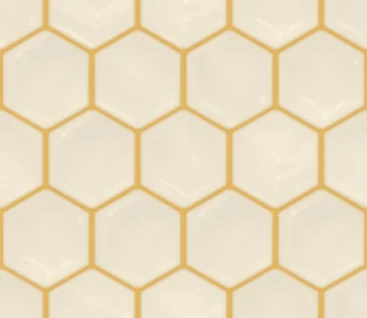
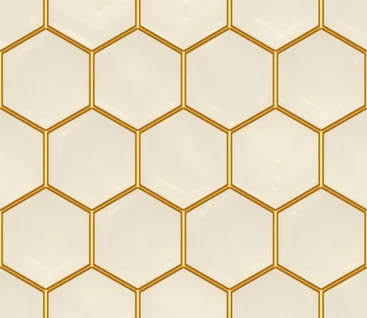
Sonicology Rack look: the EQ graph as the concept draws it; real gold on the knob panel
- EQ: gold glowing curve, the area to 0 dB in the colour of the band that shapes it
  (gold lifts, red hard cuts, blue gentle / low / high cuts), round glossy points, a
  red line and a red glow under a hard cut, the spectrum as a filled glowing area
  with a spiky edge, +12 to -18 dB, bold white scale, coloured band pills (BANDS).
- Knob panel: its honeycomb lines in shaded gold (darker edge, gold, bright middle,
  warm glow), like the glass honeycomb's walls.
- Plan: what each plug-in publishes for an EQ (bands with names, a spectrum).

Claude-Session: https://claude.ai/code/session_011JvJZtqrGyHXKfGHL4LA1p

Changed region(s): [[0.0, 0.0, 1.0, 1.0]]

diff --git a/plugin/ui/rack.js b/plugin/ui/rack.js
@@ -390,52 +390,121 @@
     return 20 * Math.log10(Math.max(mag, 1e-9)) * order;
   }
 
+  // EQ bands as the concept draws them: gold where a band lifts, red where it cuts hard (with a red line down from its
+  // point and the spectrum tinted under it), blue for gentle cuts and low / high cuts.
+  const isCut = (b) => b.type === "lowCut" || b.type === "highCut";
+  const bandTone = (b) => (isCut(b) ? "blue" : (b.db || 0) >= 0.5 ? "gold" : (b.db || 0) <= -2 ? "red" : "blue");
+  const BAND_WORD = { lowCut: "Low Cut", highCut: "High Cut", lowShelf: "Low Shelf", highShelf: "High Shelf" };
+  const bandName = (b, i) => b.name || BAND_WORD[b.type] || "Band " + (i + 1);
+  const TONE_RGB = { gold: "242, 196, 84", blue: "58, 162, 255", red: "255, 46, 69" };
+
   function eqGraph(mod, w, h) {
-    const bands = mod.bands || [];
-    const fx = (f) => (Math.log10(f / 20) / 3) * w;
-    const range = Math.max(12, Math.ceil(Math.max(0, ...bands.filter((b) => b.type !== "lowCut" && b.type !== "highCut").map((b) => Math.abs(b.db || 0))) / 6) * 6);
-    const gy = (db) => h / 2 - (clamp(db, -range * 1.5, range) / range) * (h / 2 - 14);
+    const bands = (mod.bands || []).filter((b) => b.on !== false);
+    const fx = (f) => (Math.log10(clamp(f, 20, 20000) / 20) / 3) * w;
+    const bells = bands.filter((b) => !isCut(b));
+    const top = Math.max(12, Math.ceil(Math.max(0, ...bells.map((b) => b.db || 0)) / 6) * 6);
+    const bot = -Math.max(18, Math.ceil(Math.max(0, ...bells.map((b) => -(b.db || 0))) / 6) * 6);
+    const gy = (db) => 6 + ((top - clamp(db, bot, top)) / (top - bot)) * (h - 12);
+    const y0 = gy(0);
+
+    let defs = "";
+    for (const t of Object.keys(TONE_RGB)) {
+      defs += `<linearGradient id="sr-up-${t}" x1="0" y1="0" x2="0" y2="1"><stop offset="0" stop-color="rgb(${TONE_RGB[t]})" stop-opacity=".62"/><stop offset="1" stop-color="rgb(${TONE_RGB[t]})" stop-opacity=".10"/></linearGradient>`;
+      defs += `<linearGradient id="sr-dn-${t}" x1="0" y1="0" x2="0" y2="1"><stop offset="0" stop-color="rgb(${TONE_RGB[t]})" stop-opacity=".10"/><stop offset="1" stop-color="rgb(${TONE_RGB[t]})" stop-opacity=".66"/></linearGradient>`;
+    }
+    defs += `<linearGradient id="sr-spec" x1="0" y1="0" x2="0" y2="1"><stop offset="0" stop-color="#3fa8ff" stop-opacity=".85"/><stop offset=".55" stop-color="#1c64d8" stop-opacity=".45"/><stop offset="1" stop-color="#0b2a80" stop-opacity=".25"/></linearGradient>`;
+    defs += `<linearGradient id="sr-spec-red" x1="0" y1="0" x2="0" y2="1"><stop offset="0" stop-color="#ff5a6a" stop-opacity=".95"/><stop offset="1" stop-color="#a0001a" stop-opacity=".45"/></linearGradient>`;
+    defs += `<linearGradient id="sr-redcol" x1="0" y1="0" x2="0" y2="1"><stop offset="0" stop-color="#ff2e45" stop-opacity=".22"/><stop offset="1" stop-color="#ff2e45" stop-opacity="0"/></linearGradient>`;
+    defs += `<linearGradient id="sr-redfade" x1="0" y1="0" x2="1" y2="0"><stop offset="0" stop-color="#fff" stop-opacity="0"/><stop offset=".5" stop-color="#fff" stop-opacity="1"/><stop offset="1" stop-color="#fff" stop-opacity="0"/></linearGradient>`;
+
     let grid = "";
     for (const f of [50, 100, 200, 500, 1000, 2000, 5000, 10000]) grid += `<line x1="${fx(f)}" y1="0" x2="${fx(f)}" y2="${h}" class="sr-gl"/>`;
-    for (let d = -range; d <= range; d += range / 2) grid += `<line x1="0" y1="${gy(d)}" x2="${w}" y2="${gy(d)}" class="sr-gl${d === 0 ? " sr-g0" : ""}"/>`;
-    let spec = "";
+    for (let d = top; d >= bot; d -= 6) grid += `<line x1="0" y1="${gy(d)}" x2="${w}" y2="${gy(d)}" class="sr-gl${d === 0 ? " sr-g0" : ""}"/>`;
+
+    // the spectrum (spiky, glowing); tinted red under hard cuts
+    const reds = bands.filter((b) => bandTone(b) === "red");
+    let spec = "", clips = "";
     if (Array.isArray(mod.spectrum) && mod.spectrum.length > 4) {
+      // dense glowing needles under a soft envelope (the concept's spectrum), in dB on the graph's own scale
       const n = mod.spectrum.length;
-      let p = `M0 ${h}`;
+      const sy = (v) => gy(clamp(v, bot, top)).toFixed(1);
+      let d = `M0 ${h}`, edge = "", needles = "", pen = false;
       mod.spectrum.forEach((v, i) => {
-        const x = (i / (n - 1)) * w;
-        const y = h - clamp((v + 72) / 72, 0, 1) * (h - 8);
-        p += ` L${x.toFixed(1)} ${y.toFixed(1)}`;
+        const x = ((i / (n - 1)) * w).toFixed(1);
+        d += ` L${x} ${sy(v)}`;
+        const shows = v > bot + 1;   // no line along the floor where there is nothing
+        if (shows) { edge += `${pen ? "L" : "M"}${x} ${sy(v)}`; needles += `M${x} ${h}V${sy(v)}`; }
+        pen = shows;
       });
-      spec = `<path d="${p} L${w} ${h} Z" class="sr-spec"/>`;
+      d += ` L${w} ${h} Z`;
+      const body = `<path d="${d}" fill="url(#sr-spec)" class="sr-specarea"/><path d="${needles}" class="sr-needles"/><path d="${edge}" class="sr-specedge"/>`;
+      spec = `<g class="sr-spec">${body}</g>`;
+      reds.forEach((b, i) => {
+        const span = Math.pow(2, 0.9 / Math.max(0.4, b.q || 1));
+        const x0 = fx(b.hz / span), x1 = fx(b.hz * span);
+        clips += `<mask id="sr-rm-${i}" maskUnits="userSpaceOnUse"><rect x="${x0}" y="0" width="${x1 - x0}" height="${h}" fill="url(#sr-redfade)"/></mask>`;
+        spec += `<g class="sr-spec sr-spec-red" mask="url(#sr-rm-${i})"><path d="${d}" fill="url(#sr-spec-red)" class="sr-specarea"/><path d="${needles}" class="sr-needles"/><path d="${edge}" class="sr-specedge"/></g>`;
+      });
     }
-    let curve = "", fill = "";
-    if (bands.length) {
-      const pts = [];
-      for (let i = 0; i <= 160; i++) {
-        const f = 20 * Math.pow(1000, i / 160);
-        let db = 0;
-        for (const b of bands) if (b.on !== false) db += bandDb(b, f);
-        pts.push([fx(f), gy(db), db]);
-      }
-      const d = pts.map((p, i) => (i ? "L" : "M") + p[0].toFixed(1) + " " + p[1].toFixed(1)).join(" ");
-      curve = `<path d="${d}" class="sr-curve"/>`;
-      fill = `<path d="${d} L${w} ${gy(0)} L0 ${gy(0)} Z" class="sr-curvefill"/>`;
-    }
-    let dots = "";
-    bands.forEach((b, i) => {
-      if (b.on === false) return;
-      const x = fx(clamp(b.hz, 20, 20000));
-      const y = b.type === "lowCut" || b.type === "highCut" ? gy(-3) : gy(b.db || 0);
-      const tone = b.db < -0.05 && b.type !== "lowCut" && b.type !== "highCut" ? "red" : i % 2 ? "blue" : "gold";
-      dots += `<circle cx="${x.toFixed(1)}" cy="${y.toFixed(1)}" r="7" class="sr-dot sr-dot-${tone}"/>`;
+    let cols = "";
+    reds.forEach((b, i) => {
+      const span = Math.pow(2, 0.9 / Math.max(0.4, b.q || 1));
+      cols += `<rect x="${fx(b.hz / span)}" y="${y0}" width="${fx(b.hz * span) - fx(b.hz / span)}" height="${h - y0}" fill="url(#sr-redcol)" mask="url(#sr-rm-${i})"/>`;
     });
+
+    // the response, and the fill between it and 0 dB in the colour of the band that shapes each part
+    let curve = "", fills = "";
+    if (bands.length) {
+      const N = 200;
+      const pts = [];
+      for (let i = 0; i <= N; i++) {
+        const f = 20 * Math.pow(1000, i / N);
+        let db = 0, lead = null, most = 0;
+        for (const b of bands) {
+          const v = bandDb(b, f);
+          db += v;
+          if (Math.abs(v) > most) { most = Math.abs(v); lead = b; }
+        }
+        pts.push({ x: fx(f), y: gy(db), db, tone: lead && most > 0.15 ? bandTone(lead) : null });
+      }
+      curve = `<path d="${pts.map((p, i) => (i ? "L" : "M") + p.x.toFixed(1) + " " + p.y.toFixed(1)).join(" ")}" class="sr-curve"/>`;
+      let i = 0;
+      while (i < pts.length) {
+        let j = i;
+        const up = pts[i].db >= 0;
+        while (j + 1 < pts.length && pts[j + 1].tone === pts[i].tone && (pts[j + 1].db >= 0) === up) j++;
+        if (pts[i].tone && j > i) {
+          const seg = pts.slice(i, j + 2 <= pts.length ? j + 2 : j + 1);
+          const d = `M${seg[0].x.toFixed(1)} ${y0} ` + seg.map((p) => `L${p.x.toFixed(1)} ${p.y.toFixed(1)}`).join(" ") + ` L${seg[seg.length - 1].x.toFixed(1)} ${y0} Z`;
+          fills += `<path d="${d}" fill="url(#sr-${up ? "up" : "dn"}-${pts[i].tone})"/>`;
+        }
+        i = j + 1;
+      }
+    }
+
+    // each band's point (round, glossy: HTML on top of the stretched drawing), a red line down from a hard cut
+    let lines = "", dots = "";
+    bands.forEach((b) => {
+      const x = fx(b.hz);
+      const y = isCut(b) ? gy(-3) : gy(b.db || 0);
+      const tone = bandTone(b);
+      if (tone === "red") lines += `<line x1="${x}" y1="${y}" x2="${x}" y2="${h}" class="sr-redline"/>`;
+      dots += `<i class="sr-eqdot sr-eqdot-${tone}" style="left:${((x / w) * 100).toFixed(2)}%;top:${((y / h) * 100).toFixed(2)}%"></i>`;
+    });
+
     const labels = [20, 50, 100, 200, 500, "1k", "2k", "5k", "10k", "20k"].map((t) => {
       const f = typeof t === "number" ? t : parseFloat(t) * 1000;
       return `<span style="left:${(fx(f) / w) * 100}%">${t}</span>`;
     }).join("");
-    const dbl = [range, range / 2, 0, -range / 2, -range].map((d) => `<span style="top:${(gy(d) / h) * 100}%">${d > 0 ? "+" + d : d < 0 ? MINUS + -d : 0}</span>`).join("");
-    return `<div class="sr-graph sr-graph-eq"><div class="sr-ylab">${dbl}</div><svg viewBox="0 0 ${w} ${h}" preserveAspectRatio="none">${grid}${spec}${fill}${curve}${dots}</svg><div class="sr-xlab">${labels}</div></div>`;
+    let dbl = "";
+    for (let d = top; d >= bot; d -= 6) dbl += `<span style="top:${(gy(d) / h) * 100}%">${d > 0 ? "+" + d : d < 0 ? MINUS + -d : 0}</span>`;
+    return `<div class="sr-graph sr-graph-eq"><div class="sr-ylab">${dbl}</div><svg viewBox="0 0 ${w} ${h}" preserveAspectRatio="none"><defs>${defs}${clips}</defs>${grid}${spec}${cols}${fills}${lines}${curve}</svg>${dots}<div class="sr-xlab">${labels}</div></div>`;
+  }
+
+  function bandChips(mod) {
+    const bands = (mod.bands || []).filter((b) => b.on !== false);
+    if (!bands.length) return "";
+    return `<div class="sr-bands"><b>BANDS</b>${bands.map((b, i) => `<span class="sr-band sr-band-${bandTone(b)}">${i + 1}&nbsp; ${esc(bandName(b, i))}</span>`).join("")}</div>`;
   }
 
   function historyGraph(key, kind, w, h) {
@@ -602,6 +671,7 @@
           ${pill(m.state)}
         </div>
         <div class="sr-graphwrap">${graph}${meterNow}</div>
+        ${c.graph === "eq" ? bandChips(m) : ""}
         <div class="sr-knobs ${vals.length ? "" : "sr-knobs-none"}">
           ${vals.length ? `<div class="sr-krow">${knobs}</div>` : `<p class="sr-nokn">${m.state === "off" ? "Off: it passes the sound through untouched." : "No settings to show."}</p>`}
           ${more ? `<div class="sr-more">${more}</div>` : ""}

diff --git a/tools/rack/rack_mock.js b/tools/rack/rack_mock.js
@@ -13,13 +13,13 @@
   const off = (key) => ({ key, state: "off", summary: "Off" });
   const H = { lead: 0x1a2b301, chorus: 0x1a2b302, adlibs: 0x1a2b303, beat: 0x1a2b304, kick: 0x1a2b305, snare: 0x1a2b306, hats: 0x1a2b307, bass: 0x1a2b308, keys: 0x1a2b309 };
 
-  // a vocal-ish spectrum (160 bins, 20 Hz - 20 kHz, dB), spiky like a real one
-  const vocalSpectrum = () => Array.from({ length: 160 }, (_, i) => {
-    const f = 20 * Math.pow(1000, i / 159);
-    const body = -40 + 22 * Math.exp(-Math.pow(Math.log2(f / 250), 2) / 2.2) + 14 * Math.exp(-Math.pow(Math.log2(f / 2500), 2) / 1.5);
-    const roll = f < 90 ? -30 * Math.log2(90 / f) : 0;
-    const spikes = 7 * Math.abs(Math.sin(i * 12.9898 + 78.233 * Math.sin(i))) - 3.5;
-    return body + roll - (f > 9000 ? 10 * Math.log2(f / 9000) : 0) + spikes + wob(i * 0.7, 2.5) - 6;
+  // a vocal-ish spectrum (240 bins, 20 Hz - 20 kHz, dB), spiky like a real one
+  const vocalSpectrum = () => Array.from({ length: 360 }, (_, i) => {
+    const f = 20 * Math.pow(1000, i / 359);
+    const body = -40 + 22 * Math.exp(-Math.pow(Math.log2(f / 250), 2) / 3.2) + 15 * Math.exp(-Math.pow(Math.log2(f / 2500), 2) / 2.2);
+    const roll = f < 45 ? -14 * Math.log2(45 / f) : 0;
+    const spikes = 8 * Math.abs(Math.sin(i * 12.9898 + 78.233 * Math.sin(i))) - 4;
+    return body + roll - (f > 9000 ? 8 * Math.log2(f / 9000) : 0) + spikes + wob(i * 0.7, 2) + 17;
   });
 
   function voxLead() {
@@ -31,10 +31,10 @@
         { key: "vox.pitch", state: "on", summary: "Classic · 20 ms · F minor (from the beat)", values: [v("Mode", "Classic", 0.5), v("Amount", "85 %", 0.85), v("Retune", "20 ms", 0.2), v("Vibrato", "as sung", 0.5), v("Humanize", "20 %", 0.2), v("Formant", "0 st", 0.5, true)] },
         { key: "vox.cleanup", state: "on", summary: "Noise −10 dB · Low cut 90 Hz · Breaths −6 dB", values: [v("Noise", "45 %", 0.45), v("Room", "20 %", 0.2), v("Low Cut", "90 Hz", 0.35), v("Pops", "On", 1), v("Clicks", "30 %", 0.3), v("Breaths", "−6 dB", 0.4), v("Gate", "Off", 0)] },
         { key: "vox.eq", state: "on", summary: "Mud −3 dB · Presence +2.5 dB · Air +2 dB", spectrum: vocalSpectrum(),
-          bands: [{ type: "lowShelf", hz: 120, db: 0.5, q: 0.7 }, { type: "bell", hz: 320, db: -3, q: 1.1 }, { type: "bell", hz: 900, db: -0.5, q: 1.2 }, { type: "bell", hz: 3500, db: 2.5, q: 0.9 }, { type: "highShelf", hz: 10000, db: 2, q: 0.7 }],
+          bands: [{ name: "Body", type: "lowShelf", hz: 120, db: 0.5, q: 0.7 }, { name: "Mud", type: "bell", hz: 320, db: -3, q: 1.1 }, { name: "Nasal", type: "bell", hz: 900, db: -0.5, q: 1.2 }, { name: "Presence", type: "bell", hz: 3500, db: 2.5, q: 0.9 }, { name: "Air", type: "highShelf", hz: 10000, db: 2, q: 0.7 }],
           values: [v("Body", "+0.5 dB", 0.53, true), v("Mud", "−3.0 dB", 0.33, true), v("Nasal", "−0.5 dB", 0.47, true), v("Presence", "+2.5 dB", 0.64, true), v("Air", "+2.0 dB", 0.61, true)] },
         { key: "vox.dyneq", state: "on", summary: "Harsh 3.2 kHz cuts up to 4 dB · Smooth 30 %", spectrum: vocalSpectrum(),
-          bands: [{ type: "bell", hz: 180, db: -0.5, q: 1.4 }, { type: "bell", hz: 420, db: -1.5, q: 1.4 }, { type: "bell", hz: 1100, db: 0, q: 1.4 }, { type: "bell", hz: 3200, db: -3.2 + wob(6, 0.8), q: 2.2 }],
+          bands: [{ name: "Boom", type: "bell", hz: 180, db: -0.5, q: 1.4 }, { name: "Mud", type: "bell", hz: 420, db: -1.5, q: 1.4 }, { name: "Honk", type: "bell", hz: 1100, db: 0, q: 1.4 }, { name: "Harsh", type: "bell", hz: 3200, db: -4.2 + wob(6, 0.8), q: 2.2 }],
           values: [v("Max Cut", "4.0 dB", 0.4), v("Frequency", "3.2 kHz", 0.62), v("Sensitivity", "55 %", 0.55), v("Smooth", "30 %", 0.3)] },
         { key: "vox.deess", state: "on", summary: "Amount 45 % at 6.8 kHz", meterKind: "gr", meter: ds, values: [v("Amount", "45 %", 0.45), v("Sensitivity", "50 %", 0.5), v("Frequency", "6.8 kHz", 0.7)] },
         { key: "vox.rider", state: "on", summary: "Target −18 dB · Range ±6 dB · Medium", meterKind: "gr", meter: rd, values: [v("Target", "−18 dB", 0.4), v("Range", "±6 dB", 0.5), v("Speed", "Med", 0.5)] },
@@ -106,29 +106,29 @@
       voxAdlibs(),
       voxBeat(),
       link("link-beat", "Beat", H.beat, "beat", -9, {
-        "mix.assist": { summary: "Pocket −2.0 dB at 3.2 kHz", by: "Mixology's Vocal Pocket", bands: [{ type: "bell", hz: 3200, db: -2, q: 1.4 }], values: [v("Low Cut", "Off", 0), v("Mud", "Off", 0), v("Pocket", "−2.0 dB", 0.35, true)] },
+        "mix.assist": { summary: "Pocket −2.0 dB at 3.2 kHz", by: "Mixology's Vocal Pocket", bands: [{ name: "Pocket", type: "bell", hz: 3200, db: -2, q: 1.4 }], values: [v("Low Cut", "Off", 0), v("Mud", "Off", 0), v("Pocket", "−2.0 dB", 0.35, true)] },
         "mix.stereo": { summary: "Lows in the middle below 120 Hz", values: [v("Width", "100 %", 0.5), v("Low Width", "0 %", 0), v("Mid Width", "100 %", 0.5), v("High Width", "110 %", 0.55)] },
       }),
       link("link-kick", "Kick", H.kick, "track", -10, {
-        "mix.eq": { summary: "Low cut 30 Hz · box −3 dB at 400 Hz", by: "Mixology AUTO", bands: [{ type: "lowCut", hz: 30, q: 0.7 }, { type: "bell", hz: 60, db: 1.5, q: 1 }, { type: "bell", hz: 400, db: -3, q: 1.6 }, { type: "bell", hz: 4000, db: 1.5, q: 1.2 }],
+        "mix.eq": { summary: "Low cut 30 Hz · box −3 dB at 400 Hz", by: "Mixology AUTO", bands: [{ type: "lowCut", hz: 30, q: 0.7 }, { name: "Thump", type: "bell", hz: 60, db: 1.5, q: 1 }, { name: "Box", type: "bell", hz: 400, db: -3, q: 1.6 }, { name: "Click", type: "bell", hz: 4000, db: 1.5, q: 1.2 }],
           values: [v("Low Cut", "30 Hz", 0.1), v("Thump", "+1.5 dB", 0.56, true), v("Box", "−3.0 dB", 0.38, true), v("Click", "+1.5 dB", 0.56, true)] },
         "mix.trans": { summary: "Attack +20 % · Sustain −10 %", values: [v("Attack", "+20 %", 0.6, true), v("Sustain", "−10 %", 0.45, true), v("Speed", "Fast", 0.7), v("Mix", "100 %", 1)] },
       }),
       link("link-snare", "Snare", H.snare, "track", -12, {
-        "mix.eq": { summary: "Crack +2 dB at 3.5 kHz", bands: [{ type: "lowCut", hz: 70, q: 0.7 }, { type: "bell", hz: 3500, db: 2, q: 1.2 }], values: [v("Low Cut", "70 Hz", 0.2), v("Crack", "+2.0 dB", 0.58, true)] },
+        "mix.eq": { summary: "Crack +2 dB at 3.5 kHz", bands: [{ type: "lowCut", hz: 70, q: 0.7 }, { name: "Crack", type: "bell", hz: 3500, db: 2, q: 1.2 }], values: [v("Low Cut", "70 Hz", 0.2), v("Crack", "+2.0 dB", 0.58, true)] },
         "mix.trans": { summary: "Attack +15 %", values: [v("Attack", "+15 %", 0.58, true), v("Sustain", "0 %", 0.5, true)] },
         "mix.space": { summary: "Room 0.6 s · Mix 8 %", layers: ["room"], values: [v("Effect", "Room", 0.7), v("Decay", "0.6 s", 0.2), v("Mix", "8 %", 0.08)] },
       }),
       link("link-hats", "Hats", H.hats, "track", -18, {
         "mix.eq": { summary: "Low cut 300 Hz", bands: [{ type: "lowCut", hz: 300, q: 0.7 }], values: [v("Low Cut", "300 Hz", 0.45)] },
-        "mix.assist": { summary: "Pocket −1.5 dB at 3.2 kHz", by: "Mixology's Vocal Pocket", bands: [{ type: "bell", hz: 3200, db: -1.5, q: 1.4 }], values: [v("Low Cut", "Off", 0), v("Mud", "Off", 0), v("Pocket", "−1.5 dB", 0.4, true)] },
+        "mix.assist": { summary: "Pocket −1.5 dB at 3.2 kHz", by: "Mixology's Vocal Pocket", bands: [{ name: "Pocket", type: "bell", hz: 3200, db: -1.5, q: 1.4 }], values: [v("Low Cut", "Off", 0), v("Mud", "Off", 0), v("Pocket", "−1.5 dB", 0.4, true)] },
       }),
       link("link-808", "808", H.bass, "track", -8, {
         "mix.comp": { summary: "4:1 · GR 3 dB", meterKind: "gr", meter: -3 + wob(13, 1.5), values: [v("Threshold", "−18 dB", 0.45), v("Ratio", "4.0:1", 0.45), v("Attack", "10 ms", 0.3), v("Release", "120 ms", 0.4), v("Makeup", "+2.0 dB", 0.56, true), v("Knee", "Medium", 0.5)] },
         "mix.stereo": { summary: "Lows in the middle below 120 Hz", values: [v("Width", "100 %", 0.5), v("Low Width", "0 %", 0)] },
       }),
       link("link-keys", "Keys", H.keys, "track", -16, {
-        "mix.eq": { summary: "Mud −2.5 dB at 300 Hz", by: "Mixology AUTO", bands: [{ type: "lowCut", hz: 90, q: 0.7 }, { type: "bell", hz: 300, db: -2.5, q: 1.3 }], values: [v("Low Cut", "90 Hz", 0.3), v("Mud", "−2.5 dB", 0.4, true)] },
+        "mix.eq": { summary: "Mud −2.5 dB at 300 Hz", by: "Mixology AUTO", bands: [{ type: "lowCut", hz: 90, q: 0.7 }, { name: "Mud", type: "bell", hz: 300, db: -2.5, q: 1.3 }], values: [v("Low Cut", "90 Hz", 0.3), v("Mud", "−2.5 dB", 0.4, true)] },
         "mix.comp": { summary: "2:1 · GR 1.5 dB", meterKind: "gr", meter: -1.5 + wob(14, 0.8), values: [v("Threshold", "−22 dB", 0.4), v("Ratio", "2.0:1", 0.2), v("Attack", "20 ms", 0.4), v("Release", "200 ms", 0.5)] },
         "mix.tone": { summary: "Air +1.5 dB", values: [v("Warmth", "0.0 dB", 0.5, true), v("Presence", "0.0 dB", 0.5, true), v("Air", "+1.5 dB", 0.62, true)] },
         "mix.stereo": { summary: "Width 120 %", values: [v("Width", "120 %", 0.6)] },
@@ -144,7 +144,7 @@
         modules: [
           { key: "mas.unlimiter", state: "off", summary: "Neutral" },
           { key: "mas.tonaleq", state: "on", summary: "Low End +1.0 · Upper Mid −0.5 · Air +1.5 dB",
-            bands: [{ type: "lowShelf", hz: 45, db: 1, q: 0.7 }, { type: "bell", hz: 100, db: 0, q: 0.8 }, { type: "bell", hz: 350, db: 0, q: 0.9 }, { type: "bell", hz: 1000, db: 0, q: 0.8 }, { type: "bell", hz: 2500, db: -0.5, q: 0.9 }, { type: "bell", hz: 5000, db: 0, q: 0.9 }, { type: "highShelf", hz: 12000, db: 1.5, q: 0.7 }],
+            bands: [{ name: "Low End", type: "lowShelf", hz: 45, db: 1, q: 0.7 }, { name: "Bass", type: "bell", hz: 100, db: 0, q: 0.8 }, { name: "Low Mid", type: "bell", hz: 350, db: 0, q: 0.9 }, { name: "Mid", type: "bell", hz: 1000, db: 0, q: 0.8 }, { name: "Upper Mid", type: "bell", hz: 2500, db: -0.5, q: 0.9 }, { name: "Presence", type: "bell", hz: 5000, db: 0, q: 0.9 }, { name: "Air", type: "highShelf", hz: 12000, db: 1.5, q: 0.7 }],
             values: [v("Low End", "+1.0", 0.56, true), v("Bass", "0.0", 0.5, true), v("Low Mid", "0.0", 0.5, true), v("Mid", "0.0", 0.5, true), v("Upper Mid", "−0.5", 0.47, true), v("Presence", "0.0", 0.5, true), v("Air", "+1.5", 0.58, true)] },
           { key: "mas.stemeq", state: "on", summary: "Vocals +1.0 dB", values: [v("Vocals", "+1.0 dB", 0.56, true), v("Drums", "0.0 dB", 0.5, true), v("Bass", "0.0 dB", 0.5, true), v("Other", "0.0 dB", 0.5, true)] },
           { key: "mas.steady", state: "on", summary: "Amount 40 %", values: [v("Amount", "40 %", 0.4), v("Range", "3 dB", 0.4), v("Speed", "Medium", 0.5)] },

diff --git a/plugin/ui/rack.css b/plugin/ui/rack.css
@@ -209,7 +209,7 @@
 .sr-graph svg { position: absolute; inset: 0; width: 100%; height: 100%; overflow: visible; }
 .sr-gl { stroke: rgba(150, 180, 240, .14); stroke-width: 1; vector-effect: non-scaling-stroke; }
 .sr-g0 { stroke: rgba(200, 220, 255, .35); }
-.sr-spec { fill: rgba(30, 110, 230, .38); stroke: rgba(90, 170, 255, .75); stroke-width: 1; vector-effect: non-scaling-stroke; }
+.sr-spec { stroke: rgba(90, 170, 255, .75); stroke-width: 1; vector-effect: non-scaling-stroke; }
 .sr-curve { fill: none; stroke: #f2c860; stroke-width: 3; vector-effect: non-scaling-stroke; filter: drop-shadow(0 0 4px rgba(242, 200, 96, .8)); }
 .sr-curvefill { fill: rgba(255, 46, 69, .16); stroke: none; }
 .sr-dot { stroke: #fff; stroke-width: 2; vector-effect: non-scaling-stroke; }
@@ -377,3 +377,28 @@
 .sr-dim { font-size: 15px; color: var(--dim); line-height: 1.3; margin-bottom: 12px; }
 .sr-from-big { margin-top: auto; align-self: center; padding: 4px 16px; border-radius: 12px; font-size: 15px; font-weight: 700; }
 .sr-honey-strip { flex: none; min-height: 0; height: 30px; margin: 6px 8px 0; }
+
+/* ---- the EQ graph and its bands, as the concept draws them ---------------------------------------------------------- */
+.sr-graph-eq .sr-spec { filter: drop-shadow(0 0 3px rgba(60, 150, 255, .75)); }
+.sr-graph-eq .sr-specarea { stroke: none; opacity: .9; }
+.sr-graph-eq .sr-needles { fill: none; stroke: rgba(90, 180, 255, .45); stroke-width: 1; vector-effect: non-scaling-stroke; }
+.sr-graph-eq .sr-specedge { fill: none; stroke: rgba(130, 205, 255, .95); stroke-width: 1.2; vector-effect: non-scaling-stroke; }
+.sr-graph-eq .sr-spec-red { filter: drop-shadow(0 0 4px rgba(255, 46, 69, .85)); }
+.sr-graph-eq .sr-spec-red .sr-needles { stroke: rgba(255, 110, 125, .55); }
+.sr-graph-eq .sr-spec-red .sr-specedge { stroke: rgba(255, 150, 160, .95); }
+.sr-graph-eq .sr-xlab { font-size: 15px; font-weight: 700; color: #f2f6ff; bottom: -24px; }
+.sr-graph-eq .sr-ylab { font-size: 14px; font-weight: 700; color: #f2f6ff; }
+.sr-graph-eq .sr-curve { stroke: #ffd36a; stroke-width: 3.2; filter: drop-shadow(0 0 3px rgba(255, 200, 90, .95)) drop-shadow(0 0 8px rgba(242, 170, 60, .55)); }
+.sr-redline { stroke: #ff3d52; stroke-width: 2.2; vector-effect: non-scaling-stroke; filter: drop-shadow(0 0 4px #ff2e45); }
+.sr-eqdot { position: absolute; width: 20px; height: 20px; margin: -10px 0 0 -10px; border-radius: 50%; pointer-events: none; }
+.sr-eqdot-gold { background: radial-gradient(circle at 35% 30%, #fffbe6 0 12%, #ffd86e 34%, #d7962a 72%, #7a4a0a 100%); box-shadow: 0 0 0 1.5px rgba(255, 246, 210, .9), 0 0 12px 3px rgba(255, 196, 80, .75); }
+.sr-eqdot-blue { background: radial-gradient(circle at 35% 30%, #f2fbff 0 12%, #7cd0ff 34%, #1f7ee6 72%, #0a2f7a 100%); box-shadow: 0 0 0 1.5px rgba(220, 240, 255, .9), 0 0 12px 3px rgba(58, 162, 255, .8); }
+.sr-eqdot-red { background: radial-gradient(circle at 35% 30%, #fff0f1 0 12%, #ff8592 34%, #e01a32 72%, #6a0010 100%); box-shadow: 0 0 0 1.5px rgba(255, 225, 230, .9), 0 0 14px 4px rgba(255, 46, 69, .85); }
+
+.sr-bands { flex: none; display: flex; align-items: center; gap: 10px; margin: 10px 14px 0; padding: 7px 12px; border-radius: 12px; overflow: hidden;
+  background: linear-gradient(180deg, #f6ecd4, #e7d5aa); box-shadow: inset 0 0 0 2px rgba(196, 138, 38, .85), inset 0 0 0 3.5px rgba(255, 240, 190, .6), 0 0 10px rgba(242, 200, 96, .25); }
+.sr-bands > b { font-size: 15px; font-weight: 700; letter-spacing: .08em; color: #3a2606; margin-right: 4px; }
+.sr-band { flex: 0 1 auto; min-width: 0; height: 32px; display: inline-flex; align-items: center; padding: 0 16px; border-radius: 16px; font-size: 16px; font-weight: 600; white-space: nowrap; overflow: hidden; text-overflow: ellipsis; }
+.sr-band-blue { color: #eaf6ff; background: linear-gradient(180deg, #3f8fe8, #13509e 55%, #0b3577); box-shadow: inset 0 1px 0 rgba(255, 255, 255, .45), 0 0 0 1px #0a2a5c, 0 2px 4px rgba(0, 0, 0, .35); }
+.sr-band-gold { color: #3a2400; background: linear-gradient(180deg, #fff0b8, #f2c860 50%, #c48a26); box-shadow: inset 0 1px 0 #fff, 0 0 0 1px #8a5a14, 0 2px 4px rgba(0, 0, 0, .3); }
+.sr-band-red { color: #fff; background: linear-gradient(180deg, #ff6a78, #d81830 55%, #8e0a1c); box-shadow: inset 0 1px 0 rgba(255, 255, 255, .5), 0 0 0 1px #6a0010, 0 0 12px rgba(255, 46, 69, .65); }

diff --git a/tools/rack/make_art.py b/tools/rack/make_art.py
@@ -124,6 +124,9 @@ def honeycombs():
     canvas = Image.new("RGB", (round(tw * big), round(th * big)), (120, 84, 30))
     walls = Image.new("L", canvas.size, 0)
     dw = ImageDraw.Draw(walls)
+    thin = Image.new("L", canvas.size, 0)     # the knob panel's thinner gold lines, the same lattice
+    dt = ImageDraw.Draw(thin)
+    THIN = 4.6
     picks = {}
     for row in range(-1, pairs * 2 + 1):
         for col in range(-1, cols + 1):
@@ -135,6 +138,7 @@ def honeycombs():
             canvas.paste(cells[picks[key]], (round(cx * big - inner), round(cy * big - inner)), mask)
             pts = [(px * big, py * big) for (px, py) in hexagon(cx, cy, R)]
             dw.line(pts + [pts[0]], fill=255, width=round(WALL * big), joint="curve")
+            dt.line(pts + [pts[0]], fill=255, width=round(THIN * big), joint="curve")
     glow = walls.filter(ImageFilter.GaussianBlur(5 * big))
     soft = walls.filter(ImageFilter.GaussianBlur(1.0 * big))
     ridge = walls.filter(ImageFilter.MinFilter(round(WALL * 0.45 * big) | 1)).filter(ImageFilter.GaussianBlur(1.2 * big))
@@ -156,14 +160,19 @@ def honeycombs():
     navy = Image.composite(Image.new("RGB", (tw, th), (150, 96, 24)), navy, wall_glow.point(lambda v: v * 0.30))
     save_rgb(Image.composite(glass, navy, wall), "honey_dark.webp")
 
-    # the knob panel's lines are thinner than the glass honeycomb's walls
-    wall = wall.filter(ImageFilter.MinFilter(5)).filter(ImageFilter.GaussianBlur(0.6))
-    wall_glow = wall.filter(ImageFilter.GaussianBlur(3.5))
-    # pearly ivory cells framed by thin gold lines (as the concept's knob panel)
-    ivory = Image.merge("RGB", (lum.point(lambda v: 241 + (v - 180) * 0.10), lum.point(lambda v: 232 + (v - 180) * 0.10), lum.point(lambda v: 212 + (v - 180) * 0.08)))
-    ivory = Image.composite(Image.new("RGB", (tw, th), (226, 196, 128)), ivory, wall_glow.point(lambda v: v * 0.45))
-    ivory = Image.composite(Image.new("RGB", (tw, th), (206, 152, 58)), ivory, wall.point(lambda v: v * 0.95))
-    ivory = Image.composite(Image.new("RGB", (tw, th), (240, 202, 118)), ivory, wall.filter(ImageFilter.MinFilter(3)).point(lambda v: v * 0.7))
+    # the knob panel: pearly ivory cells framed by thin lines of real-looking gold (the same layers as the glass
+    # honeycomb's walls: a darker edge, gold, a bright middle, a warm glow), as the concept's knob panel
+    cells_lum = canvas.convert("L")
+    ivory = Image.merge("RGB", (cells_lum.point(lambda v: 242 + (v - 180) * 0.10), cells_lum.point(lambda v: 233 + (v - 180) * 0.10), cells_lum.point(lambda v: 214 + (v - 180) * 0.08)))
+    t_glow = thin.filter(ImageFilter.GaussianBlur(3 * big))
+    t_soft = thin.filter(ImageFilter.GaussianBlur(0.6 * big))
+    t_ridge = thin.filter(ImageFilter.MinFilter(round(THIN * 0.40 * big) | 1)).filter(ImageFilter.GaussianBlur(0.6 * big))
+    t_shine = thin.filter(ImageFilter.MinFilter(round(THIN * 0.70 * big) | 1)).filter(ImageFilter.GaussianBlur(0.5 * big))
+    ivory = Image.composite(layer((236, 196, 116)), ivory, t_glow.point(lambda v: v * 0.40))
+    ivory = Image.composite(layer((138, 84, 14)), ivory, t_soft)
+    ivory = Image.composite(layer((232, 166, 46)), ivory, t_ridge)
+    ivory = Image.composite(layer((255, 238, 166)), ivory, t_shine)
+    ivory = ivory.resize((tw, th), Image.LANCZOS).filter(ImageFilter.UnsharpMask(radius=1.0, percent=40, threshold=2))
     save_rgb(ivory, "honey_ivory.webp")
 
 

diff --git a/docs/rack/RACK-PLAN.md b/docs/rack/RACK-PLAN.md
@@ -244,7 +244,15 @@ kept here; step 1 trims them, sizes them to 2x and saves WebP into `plugin/ui/ra
 `concepts/rack-coach.png`): the concept's own glass cells (cut from the clean honeycomb under its left column) set in a
 regular lattice that tiles without a seam, with gold walls drawn in the concept's colours. Glass: the left column under
 the list (in its gold frame), the Chain Flow strip, the Modules page's strip. Dark (gold walls on navy, warm glass in the
-corner): behind the logo. Ivory (thin light lines): the knob panel. A side-by-side with the concept was checked.
+corner): behind the logo. Ivory (thin lines of shaded gold, like the glass honeycomb's walls): the knob panel. Side-by-sides with the concept were
+checked.
+
+**The EQ graph** (the user, 2026-11-15: "just like the original"): the concept's drawing. A gold glowing curve; the area
+between it and 0 dB filled in the colour of the band that shapes it (gold where a band lifts, red where it cuts 2 dB or
+more, blue for gentle cuts and low / high cuts); round glossy points; a red line down from a hard cut with the spectrum
+glowing red under it; the spectrum as a filled glowing blue area with a spiky edge; scale +12 to -18 dB; the bands as
+coloured pills under the graph (BANDS: 1 Body, 2 Mud ...). So each plug-in publishes, per EQ module, its bands (type, Hz,
+dB, Q, name) and, where it has one, a spectrum (dB per bin on the graph's scale, 0 = the 0 dB line).
 
 Drawn in CSS / SVG (no file needed): the panels' gold bevels and navy glass, buttons and pills, ON toggles, meters,
 graphs, the swooshes behind the top corners (from 03 and 07), text.
